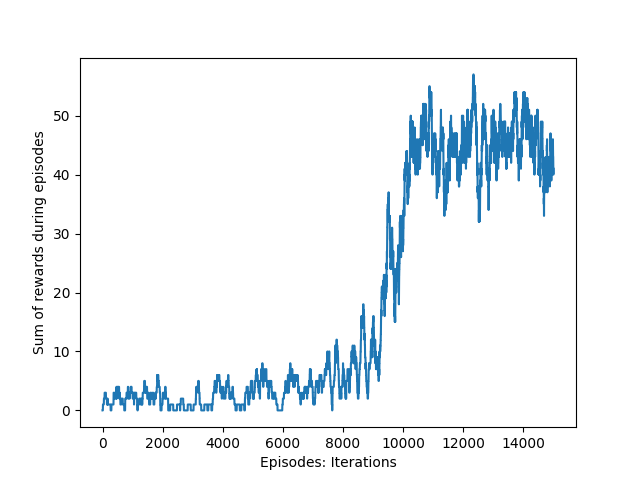
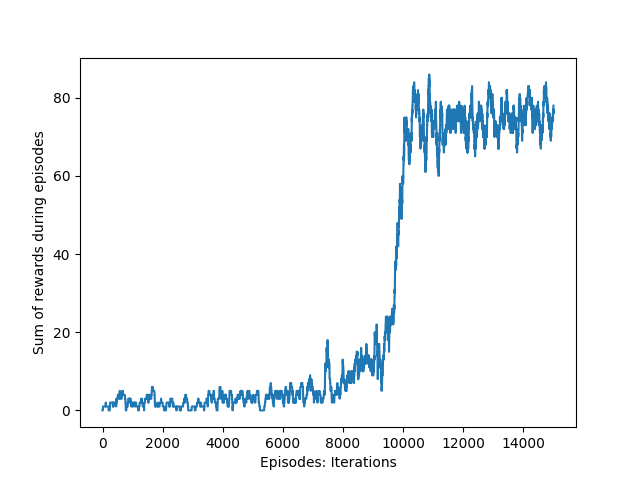
updayte

diff --git a/RL Methods/DynamicProgramming1/QLearning.py b/RL Methods/DynamicProgramming1/QLearning.py
@@ -22,7 +22,7 @@ def run(episodes, render=False):
     gamma = 0.9
 
 
-    #100% random actions
+    #100% random actions; epsilon is the value that determines exploration vs. explotation.
     epsilon = 1
     #epsilon decay rate | 1/0.0001 = 10,000
     epsilon_decay = 0.0001
@@ -41,12 +41,12 @@ def run(episodes, render=False):
         truncated = False
 
         # This entire iteration is an episode.,=
-        while(terminated or truncated):
+        while(not terminated and not truncated):
             # Check if a random number (between 0-0.99) is less than epsilon. # If so, we take a random action (explore).
             if randomNum.random() < epsilon:
                 action = env.action_space.sample() #generate random action | actions: 0=left, 1=down, 2=right, 3=up
             else:
-                action = np.argmax(Q[state,:]) # Otherwise, we take a greedy action based on the data we have from Q matrix. 
+                action = np.argmax(Q[state,:]) # Otherwise, we take a greedy action based on the data we have from Q matrix (exploit). 
 
             # Take actuin A, observe reward and next state.
             new_state,reward,terminated,truncated,_ = env.step(action)
@@ -69,6 +69,20 @@ def run(episodes, render=False):
         if reward == 1:
             rewardsPerEpisode[i] = 1
 
+    '''
+    # Evaluate policy
+    total_reward = 0
+    num_episodes = 100
+    for _ in range(num_episodes):
+        state = env.reset()
+        done = False
+        while not done:
+            action = np.argmax(Q[state, :])
+            state, reward, done, _ = env.step(action)
+            total_reward += reward
+
+    print("Average reward:", total_reward / num_episodes)
+    '''
     env.close()
 
 
@@ -80,6 +94,8 @@ def run(episodes, render=False):
     plt.xlabel("Episodes: Iterations")
     plt.ylabel("Sum of rewards during episodes")
     plt.savefig("QLearningFrozenLake.png")
+
+
 
 
 # Used to run the Q-learning method.
